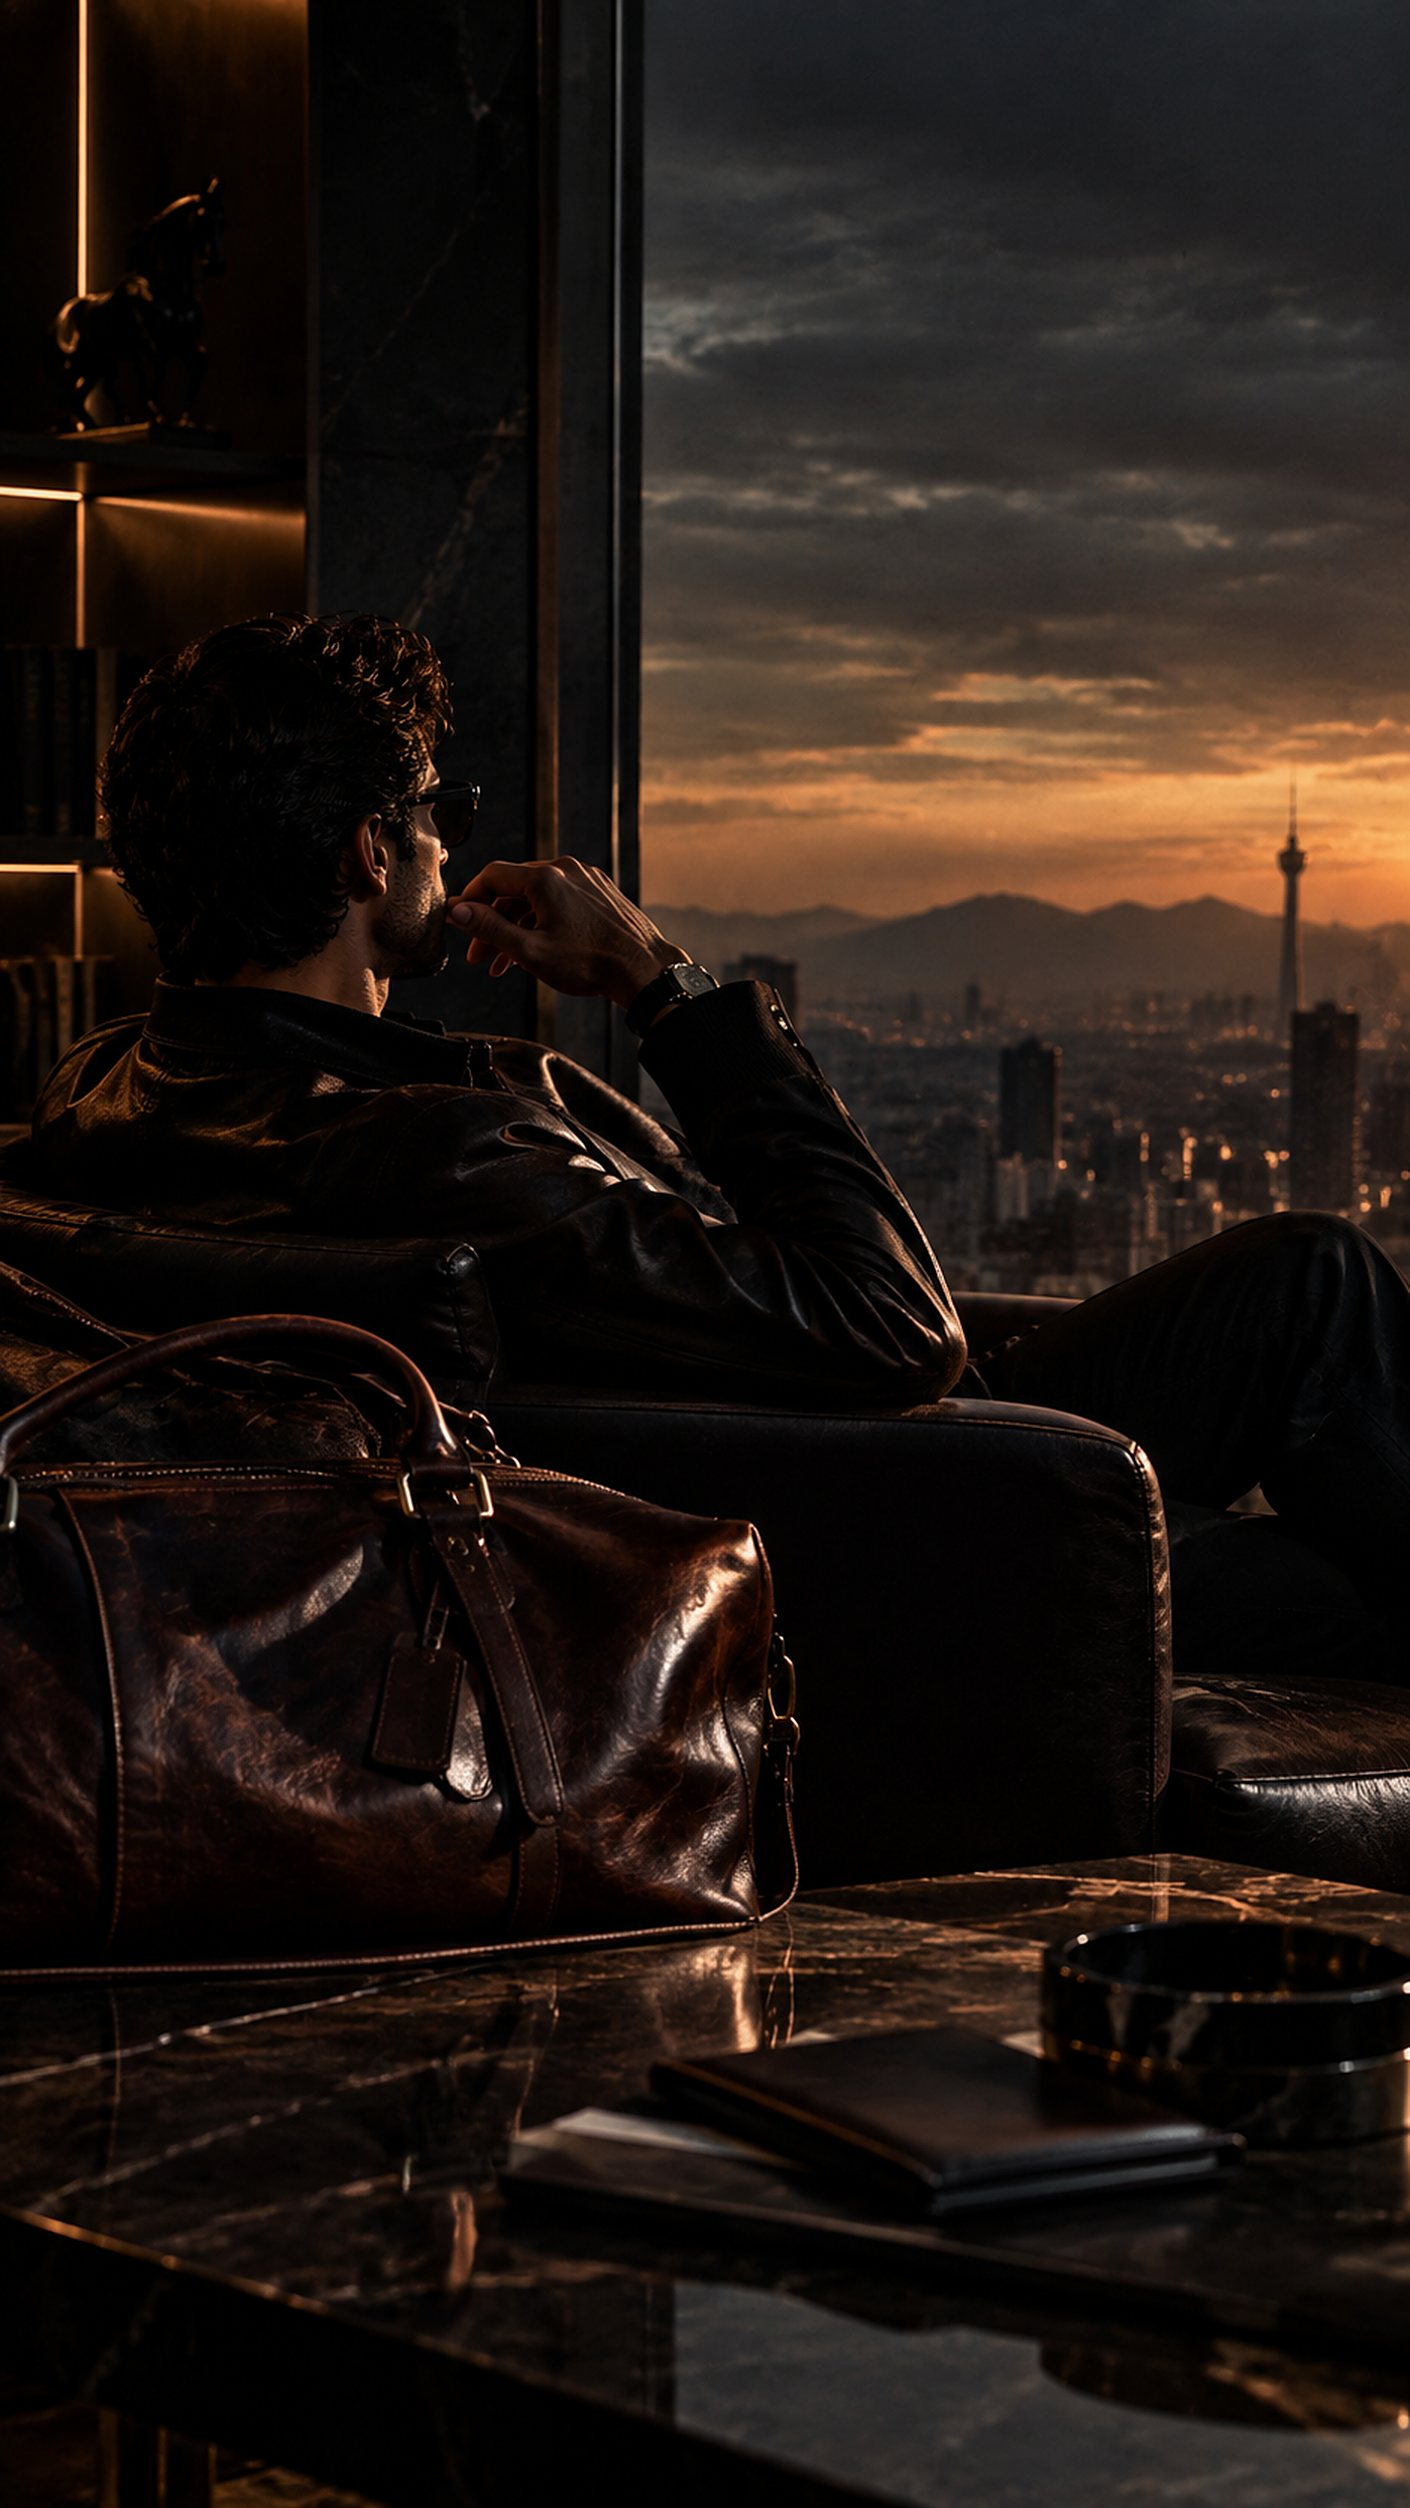
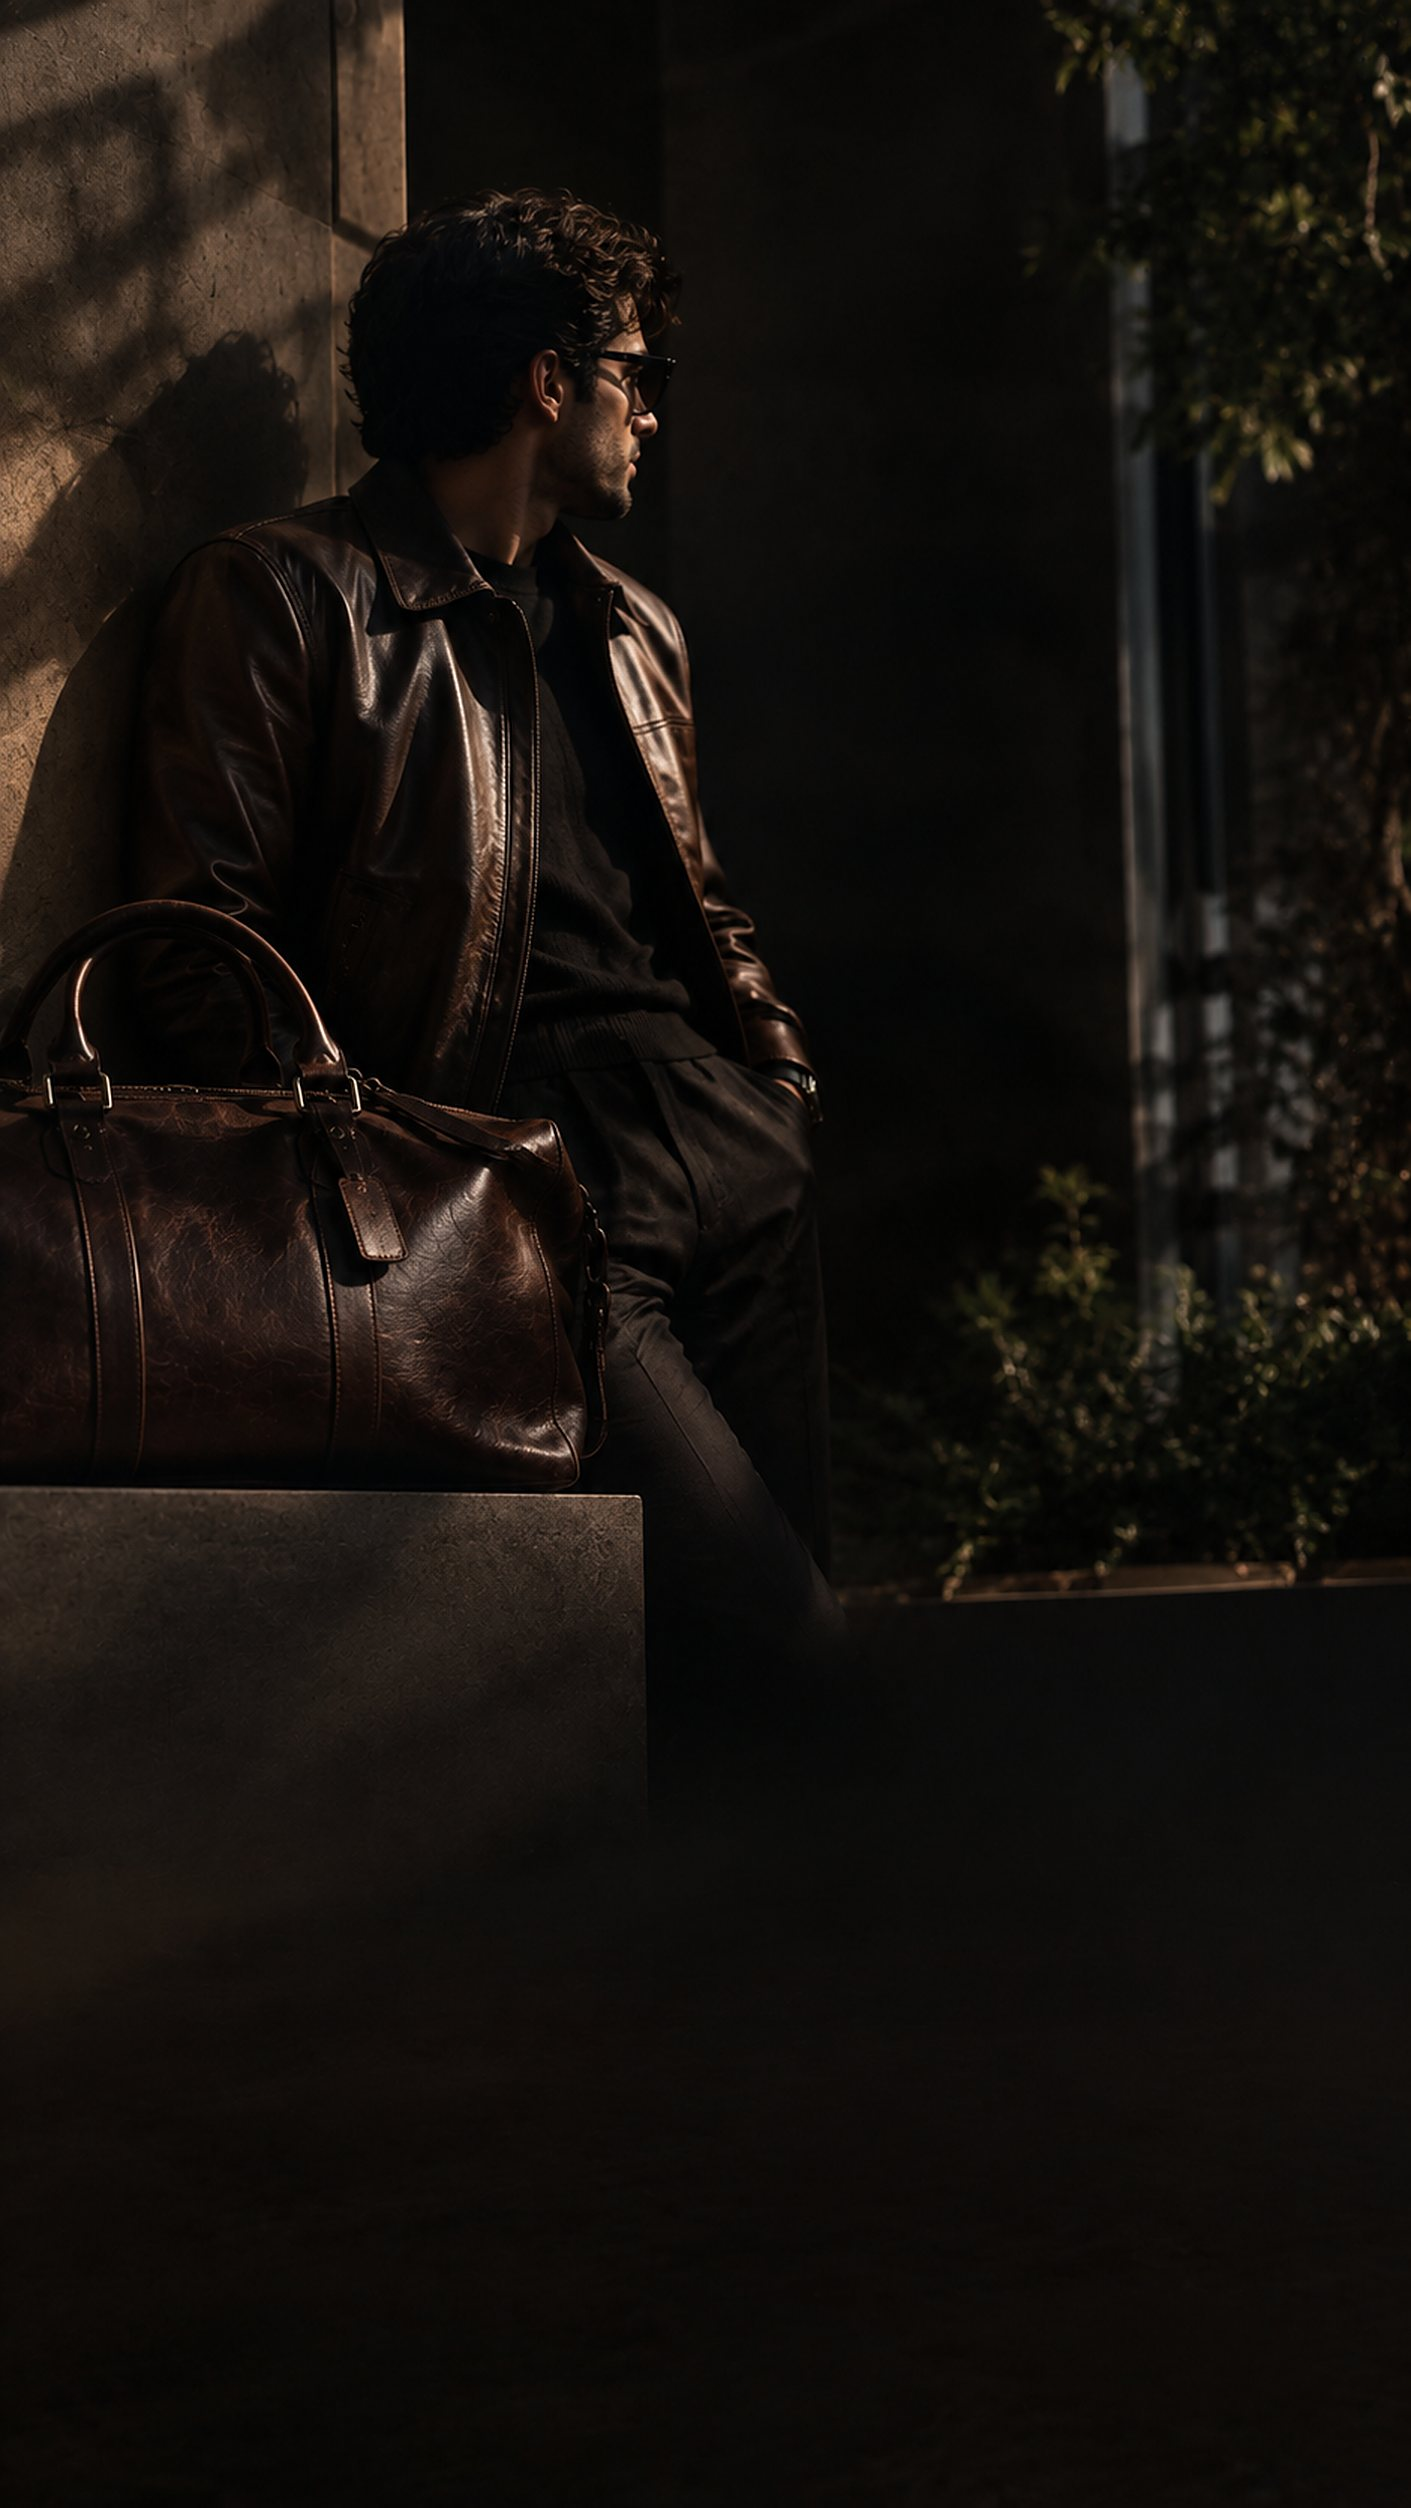
62d1969c-ffbb-48ad-a533-1890067b8cdb

diff --git a/src/components/mobile/home.tsx b/src/components/mobile/home.tsx
@@ -124,8 +124,8 @@ export function MobileHome() {
         <motion.div style={{ y: heroY }} className="absolute inset-0">
           <motion.img
             src="/images/mobile-hero.jpg"
-            alt="مردی با کاپشن چرم و کیف سفری چرم میش، منظرهی تهران در غروب"
-            className="h-full w-full object-cover object-[center_20%]"
+            alt="مردی با کاپشن چرم و کیف سفری چرم میش کنار دیوار سنگی در نور غروب"
+            className="h-full w-full object-cover object-[left_20%]"
             initial={{ scale: 1.16 }}
             animate={{ scale: 1 }}
             transition={{ duration: 2.4, delay: bootedDelay, ease: EASE }}

diff --git a/scripts/process_mobile_hero_upload.py b/scripts/process_mobile_hero_upload.py
@@ -1,17 +1,17 @@
 #!/usr/bin/env python3
-"""User-uploaded portrait photo -> public/images/mobile-hero.jpg (round 12).
-Portrait 940x1672 (man + leather duffel, Tehran skyline at dusk) -> Lanczos 1.5x
-upscale (1410x2508, ~native for 390x844 @3x) + gentle unsharp, JPEG q84 progressive."""
+"""User-uploaded portrait (round 13) -> public/images/mobile-hero.jpg.
+941x1672 (leather-jacket man + duffel against sunlit wall) -> Lanczos 1.5x
+upscale (1411x2508, ~native for 390x844 @3x) + gentle unsharp, JPEG q84 progressive."""
 from PIL import Image, ImageFilter, ImageOps
 import os, shutil
 
-SRC = "/home/z/my-project/upload/pasted_image_1789916042790.png"
+SRC = "/home/z/my-project/upload/pasted_image_1789916872850.png"
 DST = "/home/z/my-project/public/images/mobile-hero.jpg"
-PREV = "/home/z/my-project/tmp-search/mobile-hero-old.jpg"
+PREV = "/home/z/my-project/tmp-search/mobile-hero-round12.jpg"
 
 if os.path.exists(DST) and not os.path.exists(PREV):
     shutil.copy2(DST, PREV)
-    print("backed up previous mobile hero ->", PREV)
+    print("backed up round-12 mobile hero ->", PREV)
 
 img = ImageOps.exif_transpose(Image.open(SRC)).convert("RGB")
 w, h = img.size

diff --git a/worklog.md b/worklog.md
@@ -199,3 +199,22 @@ Work Log:
 
 Stage Summary:
 - The user's portrait photo now backs the mobile hero: Lanczos-upscaled to 1410x2508 and framed so the leather-clad figure, duffel bag and Tehran dusk skyline all survive the cover-crop, with the existing ink gradients keeping every overlay text legible; desktop hero and all other sections untouched.
+
+---
+Task ID: 13
+Agent: Super Z (main agent)
+Task: User revision round 13 — replace mobile hero background with a new uploaded photo; «تثبیت» everything (full stabilization pass) because the site will be shown to a customer tonight.
+
+Work Log:
+- New upload upload/pasted_image_1789916872850.png (941x1672, 1.6MB): man in brown leather jacket leaning against a sunlit concrete wall, leather duffel bag on a stone plinth beside him, dark warm copper palette, bottom third naturally black — ideal under the mobile headline gradient.
+- scripts/process_mobile_hero_upload.py (updated SRC): 1.5x Lanczos -> 1411x2508 (~native for 390x844 @3x), UnsharpMask(1.4/55/2), JPEG q84 progressive 227KB -> public/images/mobile-hero.jpg; round-12 Tehran-skyline photo backed up to tmp-search/mobile-hero-round12.jpg.
+- Framing A/B tested live via in-page objectPosition eval: 'center 20%' vs 'left 20%' -> chose left (duffel/product fully in frame, subject keeps air, right side stays dark). home.tsx: object-[center_20%] -> object-[left_20%], alt -> «مردی با کاپشن چرم و کیف سفری چرم میش کنار دیوار سنگی در نور غروب».
+- Stabilization sweep for tonight's demo:
+  - Mobile 390x844: fresh load (preloader horizontal sweep OK) -> hero final state (headline/CTA legible over dark bottom) -> scroll to New Arrivals grid (prices, badges) -> hamburger menu open (brand+X right, editorial items, chips) -> SHOP nav -> shop view (banner, chips, grid, BottomNav state) -> product view via card (gallery ۱/۴, price, rating, CTA) -> back navigation.
+  - Desktop 1600x1000: fresh load -> hero (round-11 photo + RTL headline) -> دنیای میش slider -> مجموعه جدید zig-zag grid -> dark STEP INSIDE section -> menu open (preview card shows user photo) -> THE SHOP -> shop view -> product page (breadcrumbs, swatches, qty, CTA, gallery) — all correct.
+  - Non-issue investigated: SARV cardholder looked blank during programmatic fast-scroll = lazy image still fetching; re-check shows complete:true + rendered (1024x1024).
+  - eslint src: 0 problems; tsc src: 0 errors; page errors: none (only pre-existing framer container warning); dev.log all 200s, compiles <320ms; site health curl 200; browser closed.
+- No other code touched — everything else stays exactly as approved in rounds 1-12.
+
+Stage Summary:
+- Mobile hero now carries the user's newest editorial photo (Lanczos-upscaled, left-framed so the duffel bag is whole), and the entire site passed a two-viewport end-to-end stabilization pass (preloader → hero → sections → menu → shop → product → back) with zero lint/type/runtime errors — ready for the customer demo tonight.
